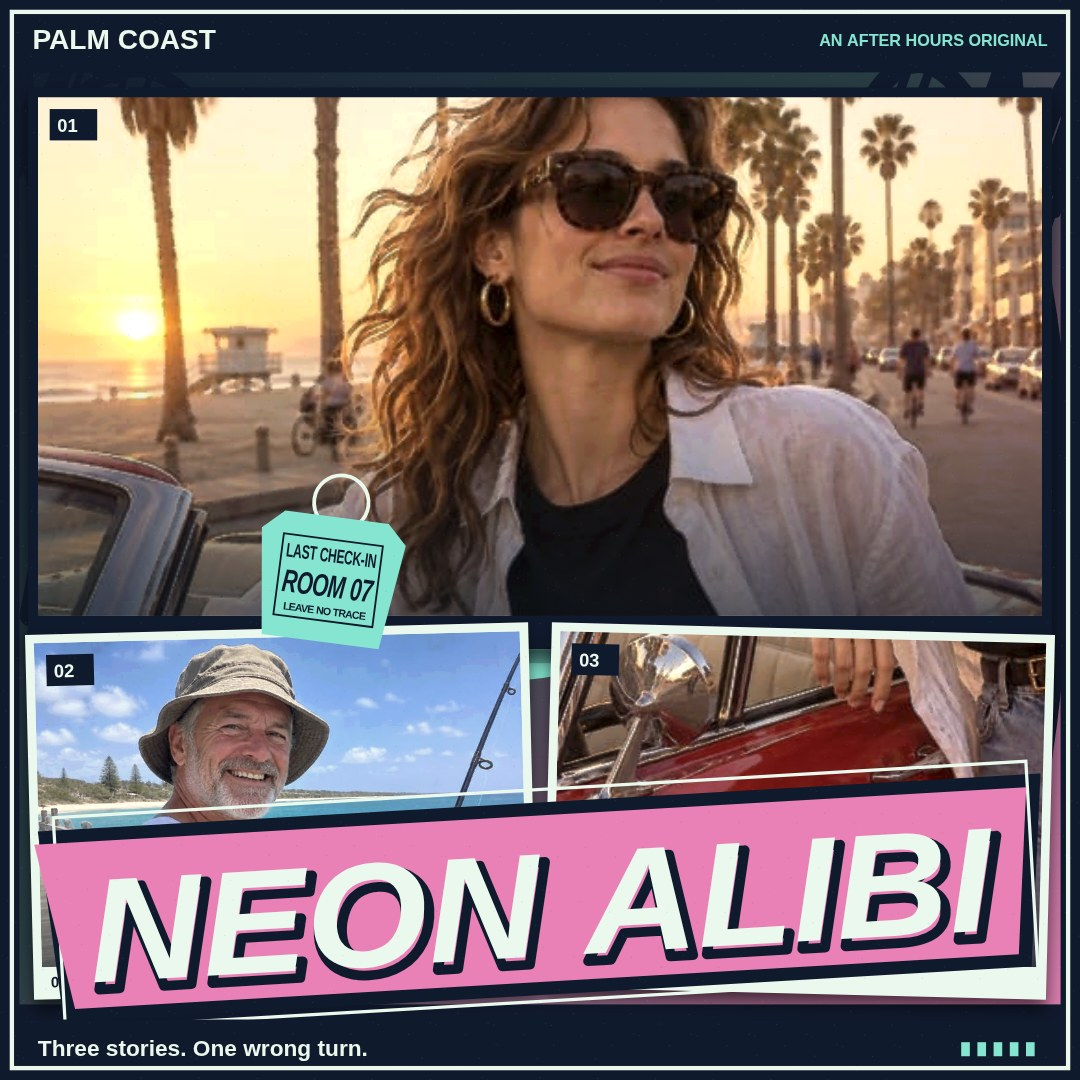
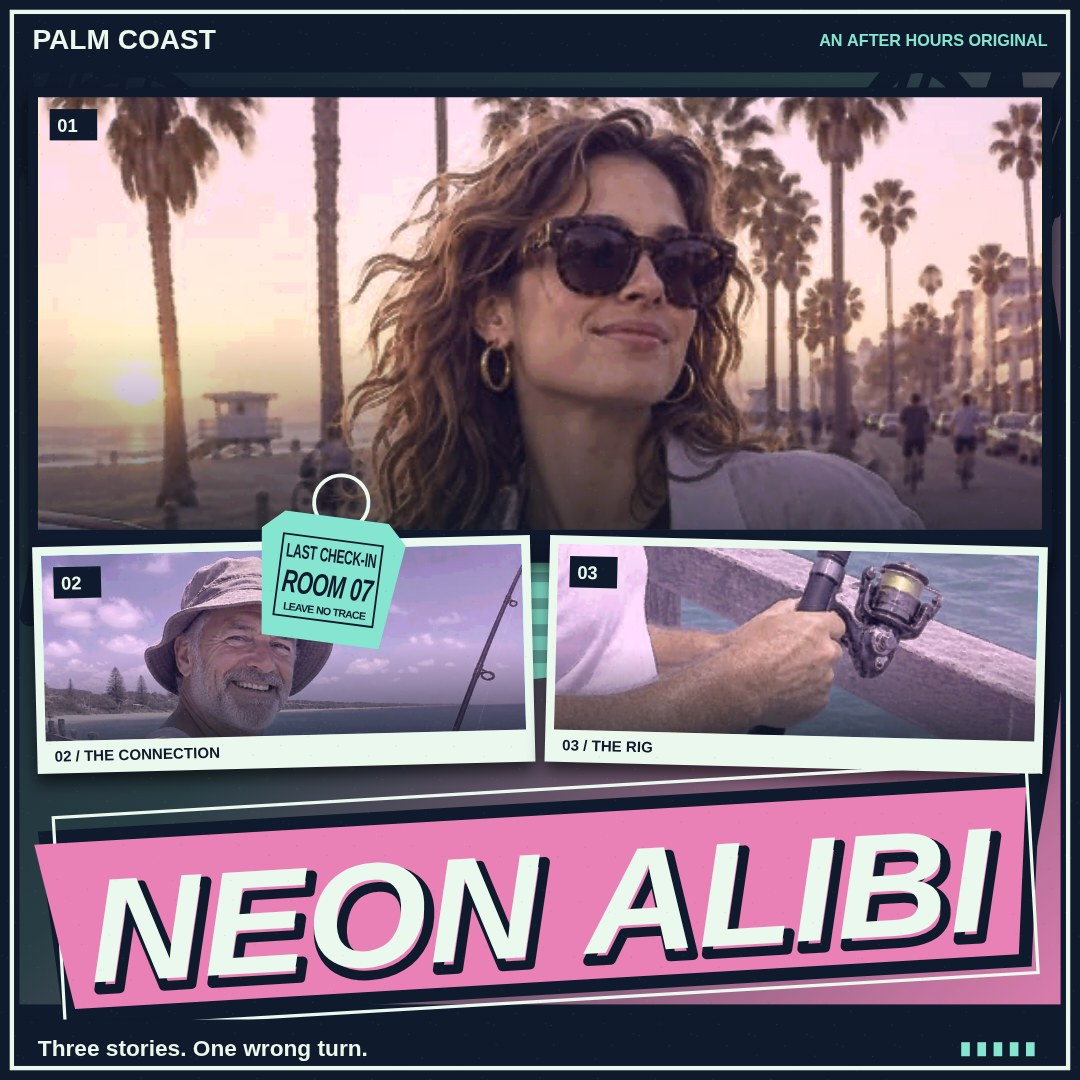
Finish After Hours cover grades and verify delivery bytes

diff --git a/app/src/cover.js b/app/src/cover.js
@@ -7,6 +7,26 @@ export const PALETTES = {
 };
 const processed = new WeakMap();
 
+const PHOTO_TONES = {
+  sunset: { saturation:.80, amount:.50, shadow:[30,19,30], highlight:[1.03,.87,.58] },
+  neon: { saturation:.84, amount:.62, shadow:[22,11,54], highlight:[1.03,.83,.85] },
+  noir: { saturation:.30, amount:.35, shadow:[34,32,30], highlight:[.72,.64,.54] },
+};
+
+export function gradePixel(red, green, blue, grade) {
+  const tone=PHOTO_TONES[grade];
+  if(!tone)return [red,green,blue];
+  const luminance=red*.299+green*.587+blue*.114;
+  // Retain naturally warm subject color where the violet ink would cool it.
+  const amount=grade==='neon'?tone.amount*(1-Math.min(.60,Math.max(0,red-blue)/125)):tone.amount;
+  const channels=[red,green,blue];
+  return channels.map((channel,index)=>{
+    const muted=luminance+(channel-luminance)*tone.saturation;
+    const target=tone.shadow[index]+luminance*tone.highlight[index];
+    return Math.max(0,Math.min(255,muted+(target-muted)*amount));
+  });
+}
+
 // Local photo -> inked print: gentle color quantization and luminance contours.
 // Only the two supplied samples or a user's decoded local image enter this cache.
 export function inkPhoto(image, grade) {
@@ -18,7 +38,9 @@ export function inkPhoto(image, grade) {
   layer.width = Math.round(image.naturalWidth*scale);
   layer.height = Math.round(image.naturalHeight*scale);
   const g = layer.getContext('2d',{willReadFrequently:true});
-  g.filter = grade === 'noir' ? 'saturate(0.26) contrast(1.22) sepia(0.24)' : 'saturate(0.88) contrast(1.17) sepia(0.10)';
+  g.filter = grade === 'noir' ? 'saturate(0.38) contrast(1.18)'
+    : grade === 'sunset' ? 'saturate(0.82) contrast(1.15)'
+    : 'saturate(0.86) contrast(1.14)';
   g.drawImage(image,0,0,layer.width,layer.height);
   g.filter='none';
   const pixels = g.getImageData(0,0,layer.width,layer.height);
@@ -27,10 +49,11 @@ export function inkPhoto(image, grade) {
   const width = layer.width;
   for (let y=1;y<layer.height-1;y++) for (let x=1;x<width-1;x++) {
     const i=(y*width+x)*4;
+    const toned=gradePixel(original[i],original[i+1],original[i+2],grade);
     const lum = at => original[at]*.299+original[at+1]*.587+original[at+2]*.114;
     const edge = Math.abs(lum(i-4)-lum(i+4))+Math.abs(lum(i-width*4)-lum(i+width*4));
-    const outline = edge>105 ? .65 : edge>65 ? .85 : 1;
-    for(let c=0;c<3;c++) data[i+c]=(Math.round(original[i+c]/22)*22*.32+original[i+c]*.68)*outline;
+    const outline = edge>92 ? .67 : edge>58 ? .86 : 1;
+    for(let c=0;c<3;c++) data[i+c]=(Math.round(toned[c]/22)*22*.4+toned[c]*.6)*outline;
   }
   g.putImageData(pixels,0,0);
   versions[grade]=layer;
@@ -95,7 +118,7 @@ function drawPhotoPanel(ctx, photo, crop, f, palette, grade, index, unit) {
   ctx.restore();
   if(index!==0) {
     ctx.fillStyle=palette.ink;ctx.font=`700 ${unit*.014}px Studio`;
-    ctx.fillText(index===1?'02 / THE CONNECTION':'03 / THE GETAWAY',unit*.008,f.h+unit*.019);
+    ctx.fillText(index===1?'02 / THE CONNECTION':'03 / THE RIG',unit*.008,f.h+unit*.019);
   }
   ctx.fillStyle=palette.ink;ctx.fillRect(unit*.011,unit*.011,unit*.044,unit*.029);
   lettering(ctx,`0${index+1}`,unit*.018,unit*.032,unit*.017,unit*.032,palette.paper);

diff --git a/app/src/geometry.js b/app/src/geometry.js
@@ -21,11 +21,11 @@ export function panelFrames(width, height, layout = 'dossier') {
   } else if (layout === 'split') {
     boxes = wide
       ? [[.025,.11,.55,.76,0],[.59,.11,.385,.36,0],[.59,.49,.385,.38,0]]
-      : [[.035,.09,.93,.48,0],[.035,.59,.45,.30,-.025],[.515,.59,.45,.30,.025]];
+      : [[.035,.09,.93,.40,0],[.04,.509,.445,.172,-.025],[.515,.509,.445,.172,.025]];
   } else {
     boxes = wide
-      ? [[.477,.085,.49,.815,.018],[.038,.115,.415,.345,-.04],[.055,.50,.385,.225,-.025]]
-      : [[.35,.08,.61,.70,.025],[.04,.13,.36,.355,-.055],[.035,.52,.36,.29,-.035]];
+      ? [[.477,.085,.49,.815,.018],[.038,.115,.415,.338,-.04],[.055,.493,.385,.193,-.025]]
+      : [[.35,.08,.61,.70,.025],[.04,.13,.36,.345,-.055],[.035,.518,.36,.212,-.035]];
   }
   return boxes.map(([x,y,w,h,angle])=>({x:x*width,y:y*height,w:w*width,h:h*height,angle}));
 }

diff --git a/app/src/main.js b/app/src/main.js
@@ -14,7 +14,7 @@ let scheduled=0;
 let loading=false;
 
 function defaultPanels() {
-  return [{photo:0,zoom:1,x:50,y:18},{photo:Math.min(1,photos.length-1),zoom:1,x:50,y:0},{photo:0,zoom:1.05,x:0,y:78}];
+  return [{photo:0,zoom:1,x:50,y:18},{photo:Math.min(1,photos.length-1),zoom:1,x:50,y:0},{photo:Math.min(1,photos.length-1),zoom:1.6,x:100,y:84}];
 }
 function announce(message) { $('status').textContent=message; }
 function paint() {

diff --git a/tests/capture.py b/tests/capture.py
@@ -5,29 +5,34 @@ from playwright.sync_api import sync_playwright, expect
 from PIL import Image
 
 ROOT=Path(__file__).resolve().parents[1]
-QA=ROOT/'.qa'
+QA=ROOT/'.qa/revision'
+QA.mkdir(parents=True,exist_ok=True)
 SHOTS=ROOT/'screenshots'
 SHOTS.mkdir(exist_ok=True)
 
 with sync_playwright() as p:
     browser=launch(p)
-    page=browser.new_page(viewport={'width':1280,'height':1080},device_scale_factor=1,accept_downloads=True)
+    page=browser.new_page(viewport={'width':1280,'height':960},device_scale_factor=1,accept_downloads=True)
     page.goto('http://127.0.0.1:8080')
     page.wait_for_function('window.__shotReady===true')
     page.wait_for_load_state('networkidle')
     manifest=[]
-    def save_export(filename,source_name,dimensions):
+    def save_export(filename,source_name,dimensions,original_size):
         with page.expect_download() as pending:
             page.get_by_role('button',name='Export PNG',exact=True).click()
         original=QA/source_name
         pending.value.save_as(original)
         with Image.open(original) as im:
+            assert im.format=='PNG' and im.size==original_size,(im.format,im.size)
             image=im.convert('RGB')
             image.thumbnail(dimensions,Image.Resampling.LANCZOS)
             image.save(SHOTS/filename,'JPEG',quality=88,optimize=True,subsampling=2)
         manifest.append({'name':filename,'source':source_name,'kind':'actual downloaded PNG, scaled only'})
-    save_export('01-after-hours-cover.jpg','cover-landscape-original.png',(1280,720))
+    save_export('01-after-hours-cover.jpg','cover-landscape-original.png',(1280,720),(1920,1080))
     expect(page.get_by_role('status')).to_contain_text('PNG ready')
+    page.evaluate('window.scrollTo(0, 86)')
+    for selector in ['.upload','#cover','.panel-editor','#export']:
+        assert page.locator(selector).evaluate('(el)=>{const r=el.getBoundingClientRect();return r.top>=0 && r.bottom<=innerHeight;}'),selector
     page.screenshot(path=str(SHOTS/'02-after-hours-studio.jpg'),type='jpeg',quality=88,full_page=False)
     manifest.append({'name':'02-after-hours-studio.jpg','kind':'unmodified browser screenshot, loaded kit photos'})
     page.get_by_role('combobox',name='Output size',exact=True).select_option('1080x1350')
@@ -35,15 +40,19 @@ with sync_playwright() as p:
     page.get_by_label('Caption',exact=True).fill('The coast keeps its secrets.')
     page.get_by_label('Color grade',exact=True).select_option('noir')
     page.locator('[data-panel="2"]').click()
-    for selector,value in [('#zoom','160'),('#pan-y','100')]:
+    for selector,value in [('#zoom','210'),('#pan-x','100'),('#pan-y','83')]:
         page.locator(selector).evaluate('(el,v)=>{el.value=v;el.dispatchEvent(new Event("input",{bubbles:true}));}',value)
-    save_export('03-last-check-in-portrait.jpg','cover-portrait-original.png',(864,1080))
+    save_export('03-last-check-in-portrait.jpg','cover-portrait-original.png',(864,1080),(1080,1350))
     page.get_by_role('combobox',name='Output size',exact=True).select_option('1080x1080')
     page.get_by_label('Layout',exact=True).select_option('split')
     page.get_by_label('Color grade',exact=True).select_option('neon')
     page.get_by_role('textbox',name='Title',exact=True).fill('Neon Alibi')
     page.get_by_label('Caption',exact=True).fill('Three stories. One wrong turn.')
-    save_export('04-neon-alibi-square.jpg','cover-square-original.png',(1080,1080))
+    for selector,value in [('#zoom','180'),('#pan-x','100'),('#pan-y','80')]:
+        page.locator(selector).evaluate('(el,v)=>{el.value=v;el.dispatchEvent(new Event("input",{bubbles:true}));}',value)
+    page.locator('[data-panel="0"]').click()
+    page.locator('#pan-y').evaluate('(el)=>{el.value=9;el.dispatchEvent(new Event("input",{bubbles:true}));}')
+    save_export('04-neon-alibi-square.jpg','cover-square-original.png',(1080,1080),(1080,1080))
     for row in manifest:
         path=SHOTS/row['name']
         with Image.open(path) as image: row.update(width=image.width,height=image.height,bytes=path.stat().st_size)

diff --git a/tests/accessibility.py b/tests/accessibility.py
@@ -4,6 +4,8 @@ from browser_smoke import launch
 from playwright.sync_api import sync_playwright
 
 ROOT=Path(__file__).resolve().parents[1]
+QA=ROOT/'.qa/revision'
+QA.mkdir(parents=True,exist_ok=True)
 with sync_playwright() as p:
     browser=launch(p)
     page=browser.new_page(viewport={'width':1280,'height':1080})
@@ -16,7 +18,7 @@ with sync_playwright() as p:
         result=page.evaluate('async()=>await axe.run(document,{runOnly:{type:"tag",values:["wcag2a","wcag2aa","wcag21aa","wcag22aa"]}})')
         failures=[{'id':v['id'],'impact':v['impact'],'nodes':[{'html':n['html'],'failureSummary':n.get('failureSummary','')} for n in v['nodes']]} for v in result['violations']]
         results.append({'viewport':viewport,'violations':failures,'passes':len(result['passes'])})
-    (ROOT/'.qa/accessibility-results.json').write_text(json.dumps(results,indent=2))
+    (QA/'accessibility-results.json').write_text(json.dumps(results,indent=2))
     print(json.dumps(results,indent=2))
     assert all(not result['violations'] for result in results)
     browser.close()

diff --git a/tests/browser_flow.py b/tests/browser_flow.py
@@ -6,7 +6,8 @@ from playwright.sync_api import sync_playwright, expect
 from PIL import Image
 
 ROOT=Path(__file__).resolve().parents[1]
-QA=ROOT/'.qa'
+QA=ROOT/'.qa/revision'
+QA.mkdir(parents=True,exist_ok=True)
 checks=[]
 def passed(text):
     checks.append(text)
@@ -43,6 +44,11 @@ with sync_playwright() as p:
     expect(page.locator('[data-panel]')).to_have_count(3)
     expect(page.locator('#photo-tray button')).to_have_count(2)
     passed('two local samples automatically fill three panels')
+    page.locator('[data-panel="2"]').click()
+    assert page.locator('#panel-photo').input_value()=='1'
+    assert [page.locator(selector).input_value() for selector in ['#zoom','#pan-x','#pan-y']]==['160','100','84']
+    passed('studio opens with the intended pier detail crop')
+    page.locator('[data-panel="0"]').click()
     before=page.locator('#cover').evaluate('(c)=>c.toDataURL()')
     page.get_by_role('textbox',name='Title',exact=True).fill('Night Run')
     page.wait_for_function('document.querySelector("#title-count").textContent==="9 / 26"')

diff --git a/tests/browser_smoke.py b/tests/browser_smoke.py
@@ -22,8 +22,10 @@ if __name__ == '__main__':
         with page.expect_download() as event:
             page.get_by_role('button', name='Export PNG', exact=True).click()
         download = event.value
-        download.save_as(ROOT / '.qa' / 'smoke-export.png')
-        assert (ROOT / '.qa' / 'smoke-export.png').stat().st_size > 1000
+        output = ROOT / '.qa' / 'revision' / 'smoke-export.png'
+        output.parent.mkdir(parents=True,exist_ok=True)
+        download.save_as(output)
+        assert output.stat().st_size > 1000
         expect(page.get_by_role('status')).to_contain_text('PNG ready')
         print('PASS browser smoke: loaded 3-panel editor and actual PNG download')
         browser.close()

diff --git a/VERIFICATION.md b/VERIFICATION.md
@@ -1,31 +1,34 @@
 # Local verification — After Hours
 
-This is a locally verified candidate, not a submission or a competitive score.
+Locally verified on 2026-11-21 with Node 22.23.4 and Chrome 152.0.7977.64. This candidate has no submission, server score or placement.
 
 ## Executed checks
 
-- `node --test tests/geometry.test.mjs`: 2 tests pass, 0 fail. Covers 324 crop/pan/zoom combinations plus three panel layouts at all three required output ratios. The detail-panel regression requires its frame to sit above the title ribbon.
-- `python3 tests/browser_smoke.py`: real three-panel editor loads and downloads a PNG.
-- `python3 tests/browser_flow.py`: 13 checks pass. Real local multi-file upload while offline, corrupt-image recovery, live title/caption changes, independent crops, one-photo fill, crop reset, all layout/grade combinations, pointer drag, all three exact PNG output dimensions, dialog Escape, visible keyboard focus, five viewport widths (1280, 1024, 760, 390 and 320 CSS pixels), no external requests, no failed local resources and no JavaScript errors.
-- `python3 tests/accessibility.py`: axe WCAG 2 A/AA, 2.1 AA and 2.2 AA tags; 26 checks passed and zero reported violations at each of 1280×1080 and 390×844. Not a claim of complete WCAG or screen-reader conformance.
-- `python3 tests/capture.py`: four fresh screenshots, three originating as real PNG downloads through the export button and one unmodified browser screenshot. Full-size and thumbnail visual checks confirm readable titles/captions, complete portrait faces, intentional car-detail crops and an unclipped editor.
-- `MAKEFUN_OUTPUT_DIR=.qa/output-a node main.ts` and `MAKEFUN_OUTPUT_DIR=.qa/output-b node main.ts`: both exit 0 with `After Hours: static app, 4 screenshots, deterministic dossier.`
-- `diff -r .qa/output-a .qa/output-b` and `cmp .qa/output-a/dossier.json .qa/output-b/dossier.json`: exit 0, no differences.
-- `node tests/audit.mjs`: 12 app files, 15 app entries, 1,395,421 app bytes; 11 local references resolve. No remote/CDN/package references or network APIs in the reachable source. All JS modules parse. 17 output files, dossier 1,202,748 bytes, exact match to independent `buildDossier` reconstruction. Output files are world-readable.
-- `git diff --check`: exit 0.
[1 lines of base64/hex data omitted]
+- `node --test tests/*.test.mjs`: 10 passed, 0 failed. The audit regression first reproduced the bug where an explicit path was ignored in favor of old output. It now verifies an actual build and rejects stale app or screenshot bytes independently. Geometry covers 324 pan/zoom/crop combinations, all three layouts and export ratios, and space for photo labels in the showcased compositions. Grade tests check warmer sunlight, rose/violet neon, warm skin retention and unknown-grade fallback.
+- `python3 tests/browser_smoke.py`: 1 smoke scenario passed (three panels load; Chrome downloads a real PNG).
+- `python3 tests/browser_flow.py`: 14 checks passed, including real local multi-file input offline, corrupt-file recovery, live title/caption editing, independent pan and zoom, one-photo fill, nine layout/grade combinations, dragging, focus and Escape, five viewport widths, and actual PNG downloads at 1920 × 1080, 1080 × 1350 and 1080 × 1080. No external requests, failed local responses or JavaScript errors.
+- `python3 tests/accessibility.py`: axe reported 26 passed rules and zero violations at each of 1280 × 1080 and 390 × 844. Automated results do not establish complete WCAG conformance. No manual screen-reader or other-browser coverage is claimed.
+- `python3 tests/capture.py`: captured four new images from the final renderer. Each artwork comes from an actual PNG downloaded via the editor, with its original dimensions verified before sizing and JPEG encoding. The editor screenshot is a direct Chrome viewport capture; it includes the complete preview, photo input, panel controls and export button.
[2 lines of base64/hex data omitted]
 
 ## Screenshot manifest
 
 | File | Dimensions | Bytes |
 | --- | --- | ---: |
-| 01-after-hours-cover.jpg | 1280 × 720 | 207830 |
-| 02-after-hours-studio.jpg | 1280 × 1080 | 232629 |
-| 03-last-check-in-portrait.jpg | 864 × 1080 | 214901 |
-| 04-neon-alibi-square.jpg | 1080 × 1080 | 217704 |
+| 01-after-hours-cover.jpg | 1280 × 720 | 199148 |
+| 02-after-hours-studio.jpg | 1280 × 960 | 212301 |
+| 03-last-check-in-portrait.jpg | 864 × 1080 | 201408 |
+| 04-neon-alibi-square.jpg | 1080 × 1080 | 208260 |
 
-Every file is below 262144 bytes, long side at most 1280, short side at least 480. Only the two AI-generated official kit sample photos appear. Full PNG downloads, manifests and test reports remain under ignored `.qa/` for independent parent inspection.
+All are within the kit's 262,144-byte ceiling and size limits; names and dimensions match `shots.json`. The app uses only the two official kit photos for these captures. The full-resolution PNGs, audit and comparison images remain under ignored `.qa/`.
 
-## Scope and remaining checks
+## Visual comparison and limits
 
-No make.fun submission, account change, wallet access or signature was performed. No external model-generated artwork or peer source/assets were used. The parent contact sheet informed only broad hierarchy/readability criteria. Server intake, witnessed recording seal, run-record/parent-chain provenance, public-repository metadata, comparative paid-boundary review and any submission remain the parent's responsibility. Chrome is the exercised browser; no claim is made for untested browsers or manual screen-reader behavior.
+Compared the continuation baseline and final captures at full size and with lead images fitted into the judge's 768 × 480 box (768 × 432 actual); the supporting strip is an approximation. The final cover trades some cool daylight cast for warmer highlights, shows the fishing grip and reel more clearly, and retains the oversized cream italic title and coral ribbon. The portrait and square detail labels now clear the title; the square's rose/violet treatment is visible in the photos, not just the ribbon. The wide detail remains a tight crop, and the cover still has more of a coastal editorial look than a dense cast montage.
+
+The [development leaderboard](https://make.fun/api/competitions/gta6-cover-art-01/leaderboard?view=performance) fetched at 05:52 UTC showed 7,007 rows. The eligible provisional rank [10](https://make.fun/api/submissions/01a1f705-a839-71d0-96f0-dd7ff4c3bec0/artifact.webp?phase=dev) was 946826 and rank [50](https://make.fun/api/submissions/01a1f88c-61fe-76ad-ac04-2d0c367ac2ec/artifact.webp?phase=dev) was 929191 in the API's raw units. Side-by-side inspection of their published covers and support images favored both on the first criterion: their wider cast and scene variety tell more of a crime-world story at a glance, and their color and lettering read more like ensemble game key art. This is a comparative visual check, not a judge verdict or a forecast; the images alone do not verify rivals' editing behavior. No competitor source or assets are used in the app or deliverables.
+
+## Intake boundary
+
+The kit has no local official grade. Its local `check` does not establish combined recording coverage, authorship, witnessed transcript and run-record eligibility, or signature validity. A recording seal and a local skip are not proof of any of these. No entry was sent, no separate transcript bundle was uploaded, and no wallet, account or spending action was taken.

diff --git a/README.md b/README.md
@@ -14,7 +14,7 @@ Run `node serve.ts` with Node 22.18 or newer. Open `http://localhost:8080` in de
 
 1. Start with the two local kit samples, or choose **Add your photos**. JPG, PNG, WebP and AVIF images are decoded on your device; nothing is uploaded.
 2. Select Hero, Snapshot or Detail. Assign a photo, drag within a panel, or use its zoom and horizontal/vertical sliders. One photo can fill all three panels while keeping crops independent.
-3. Edit the title, caption, location and key tag. Try three layouts, three color grades and clean/printed texture.
+3. Edit the title, caption, location and key tag. Try three layouts, three photographic color grades and clean/printed texture. **Coral hour** warms highlights; **Neon tide** casts rose and violet into the photographs, not just the title ribbon.
 4. Choose landscape 1920 × 1080, square 1080 × 1080 or portrait 1080 × 1350. **Export PNG** downloads the exact preview at full resolution. The confirmation says when the PNG is ready and the download has started.
 
 The live canvas and exported PNG use the same renderer. `View cover only` opens a native, keyboard-dismissable dialog. Inputs have visible keyboard focus and the layout works down to 320 CSS pixels without horizontal page overflow.
@@ -30,11 +30,11 @@ MAKEFUN_OUTPUT_DIR=.qa/output-a node main.ts
 MAKEFUN_OUTPUT_DIR=.qa/output-b node main.ts
 diff -r .qa/output-a .qa/output-b
 cmp .qa/output-a/dossier.json .qa/output-b/dossier.json
-node tests/audit.mjs
+node tests/audit.mjs .qa/output-a
 git diff --check
 ```
 
-Screenshots are four fresh images produced by `tests/capture.py`: three actual downloaded PNGs, only scaled and JPEG-encoded within the competition limits, and one unaltered browser capture of the editor with kit photos loaded and export confirmation visible. The full-resolution originals and test evidence remain locally under ignored `.qa/`.
+Screenshots are four images produced by `tests/capture.py`: three actual downloaded PNGs, only scaled and JPEG-encoded within the competition limits, and one unaltered 1280 × 960 browser capture with the cover, photo controls and export button visible. The audit compares the output app and screenshot byte contents with their sources before rebuilding the dossier. The full-resolution originals and test evidence remain locally under ignored `.qa/`.
 
 ## Verification
 
@@ -43,7 +43,7 @@ The application has no test dependency. Browser QA tooling is separate and not d
 ```
 python3 -m pip install --target .qa/python playwright --break-system-packages
 npm install --prefix .qa/axe axe-core --ignore-scripts --no-audit --no-fund
-node --test tests/geometry.test.mjs
+node --test tests/*.test.mjs
 python3 tests/browser_smoke.py
 python3 tests/browser_flow.py
 python3 tests/accessibility.py
@@ -59,4 +59,4 @@ Python QA also uses Pillow, and launches the installed `/usr/bin/google-chrome` 
 - `app/fonts/LiberationSans-*.ttf`: unmodified Liberation Sans, SIL Open Font License 1.1; copyright and full license accompany the files in `app/fonts/LICENSE.txt`. No game font files are used.
 - `vendor/makefun-app.ts`: unchanged official kit helper.
 
-No server score or paid placement is claimed. Recording seal, account eligibility and submission are handled separately by the parent; this worker does not submit or sign.
+See [local verification](VERIFICATION.md) for results and limits. No server score, submission or paid placement is claimed.
